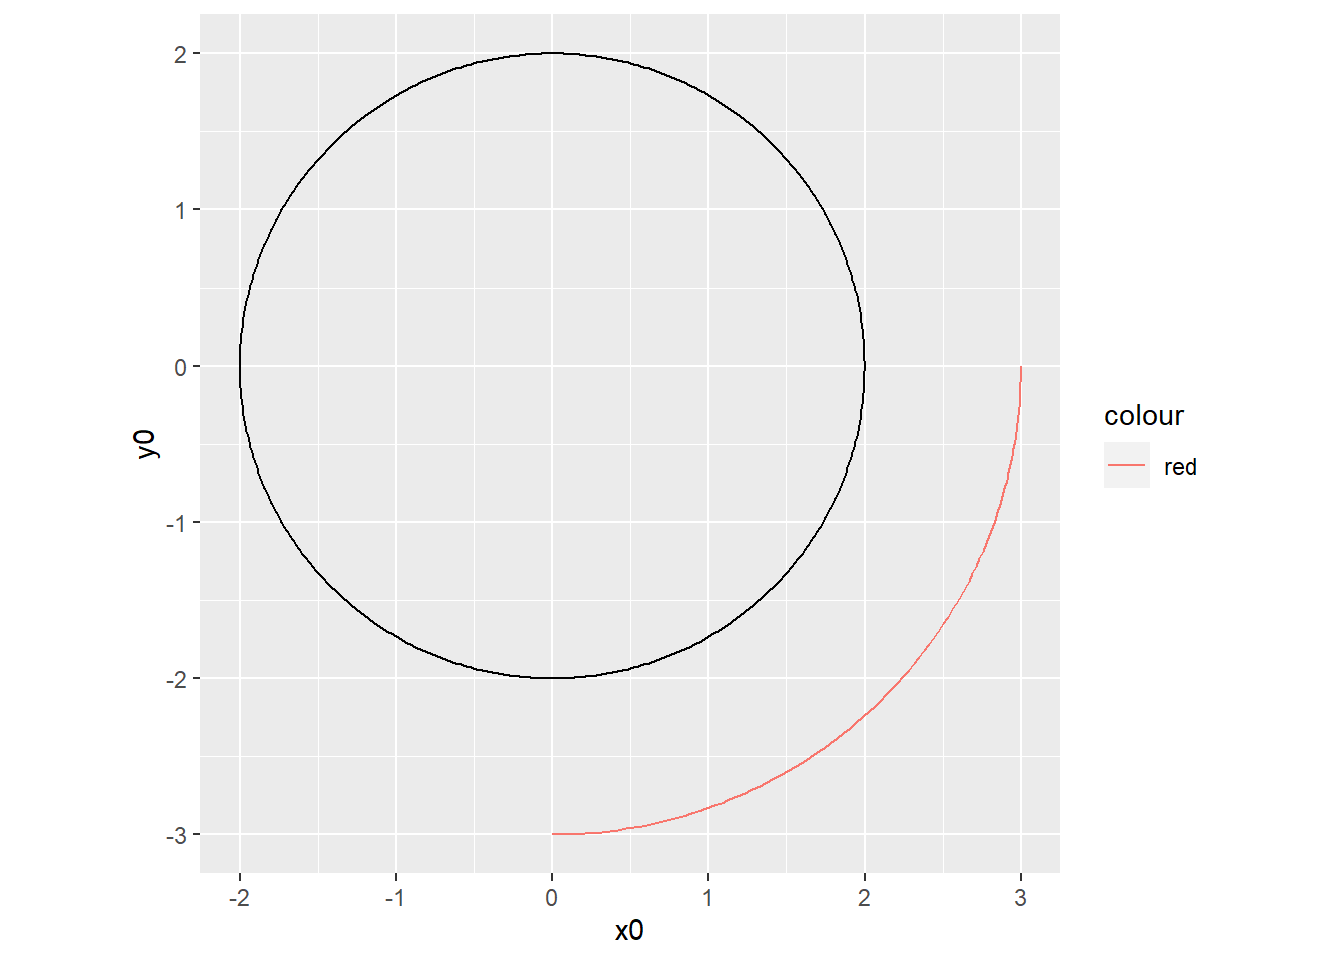
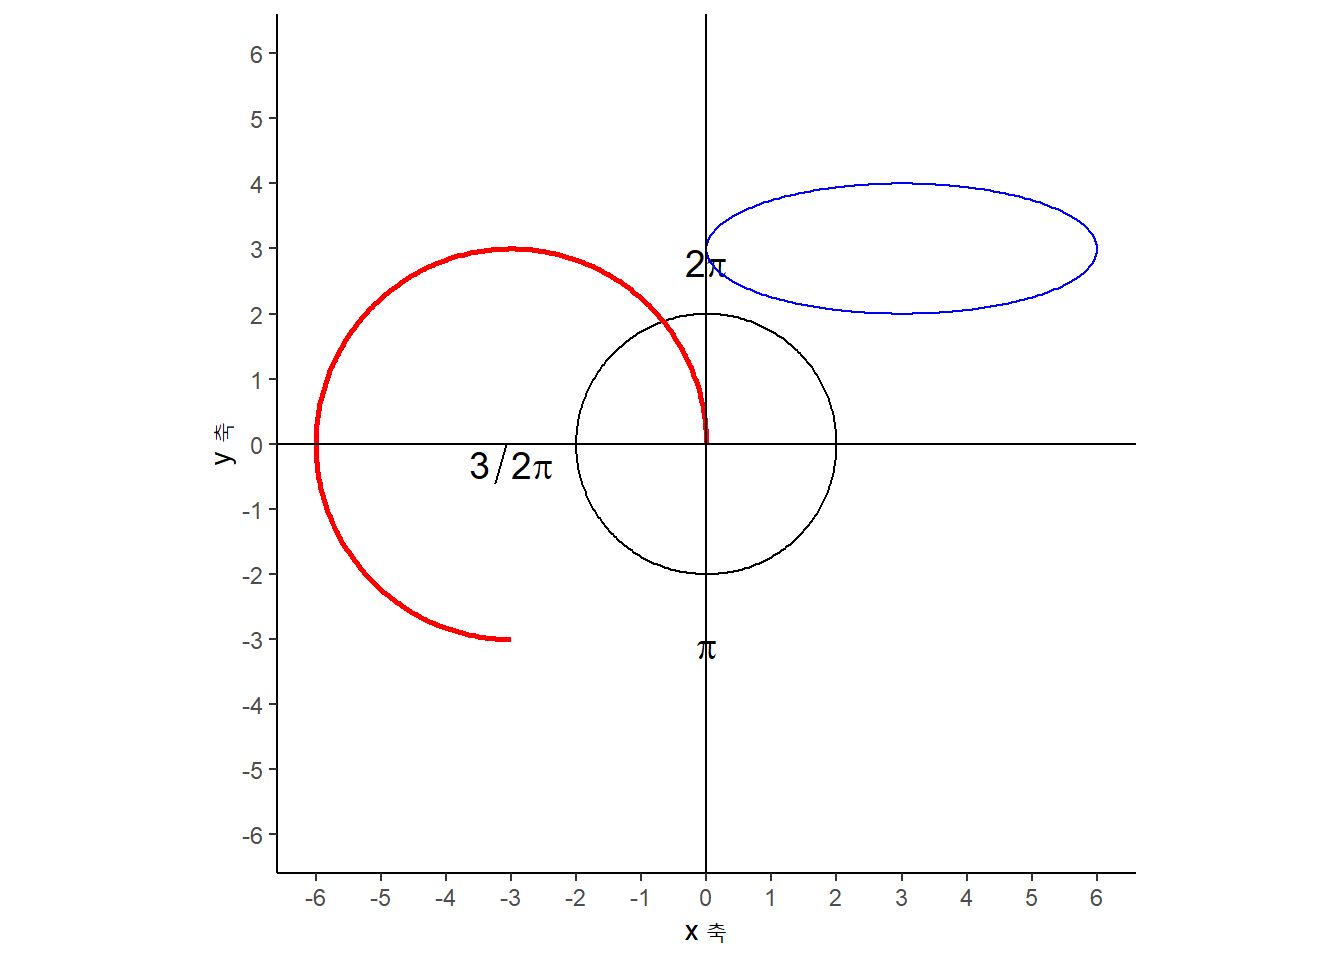
added geometric object primitives with ggplot

diff --git a/math-history-geometry-md.html b/math-history-geometry-md.html
@@ -604,13 +604,28 @@ Funky tikz
 <span id="cb9-14"><a href="#cb9-14" aria-hidden="true"></a></span>
 <span id="cb9-15"><a href="#cb9-15" aria-hidden="true"></a><span class="kw">\end</span>{<span class="ex">tikzpicture</span>}</span></code></pre></div>
 <p><img src="math-history-geometry-md_files/figure-html/draw-circle-coordinate-1.png" width="480" style="display: block; margin: auto;" /></p>
-<p>상기 <code>tikz</code> <span class="math inline">\(\LaTeX\)</span> 코드 대신 <code>ggplot</code>으로 시각화를 해보자. <code>ggforce</code> 팩키지 <code>geom_circle()</code>을 사용한다.</p>
+<p>상기 <code>tikz</code> <span class="math inline">\(\LaTeX\)</span> 코드 대신 <code>ggplot</code>으로 시각화를 해보자. <code>ggforce</code> 팩키지 <code>geom_circle()</code>을 사용한다. <code>geom_arc()</code>를 사용하여 호도 시각화 시킬 수 있고, <code>geom_ellipse()</code>를 사용하게 되면 타원도 그릴 수 있다.</p>
 <div class="sourceCode" id="cb10"><pre class="sourceCode r"><code class="sourceCode r"><span id="cb10-1"><a href="#cb10-1" aria-hidden="true"></a><span class="kw">library</span>(ggforce)</span>
 <span id="cb10-2"><a href="#cb10-2" aria-hidden="true"></a></span>
 <span id="cb10-3"><a href="#cb10-3" aria-hidden="true"></a><span class="kw">ggplot</span>() <span class="op">+</span></span>
-<span id="cb10-4"><a href="#cb10-4" aria-hidden="true"></a><span class="st">  </span><span class="kw">geom_circle</span>(<span class="kw">aes</span>(<span class="dt">x0 =</span> <span class="dv">0</span>, <span class="dt">y0 =</span> <span class="dv">0</span>, <span class="dt">r =</span> <span class="dv">2</span>), <span class="dt">color =</span> <span class="st">&quot;black&quot;</span>) <span class="op">+</span></span>
-<span id="cb10-5"><a href="#cb10-5" aria-hidden="true"></a><span class="st">  </span><span class="kw">coord_fixed</span>(<span class="dt">ratio =</span> <span class="dv">1</span>) <span class="op">+</span></span>
-<span id="cb10-6"><a href="#cb10-6" aria-hidden="true"></a><span class="st">  </span><span class="kw">geom_arc</span>(<span class="kw">aes</span>(<span class="dt">x0 =</span> <span class="dv">0</span>, <span class="dt">y0 =</span> <span class="dv">0</span>, <span class="dt">r =</span> <span class="dv">3</span>, <span class="dt">start =</span> pi<span class="op">/</span><span class="dv">2</span>, <span class="dt">end =</span> pi, <span class="dt">color =</span> <span class="st">&quot;red&quot;</span>))</span></code></pre></div>
+<span id="cb10-4"><a href="#cb10-4" aria-hidden="true"></a><span class="st">  </span><span class="co"># 원</span></span>
+<span id="cb10-5"><a href="#cb10-5" aria-hidden="true"></a><span class="st">  </span><span class="kw">geom_circle</span>(<span class="kw">aes</span>(<span class="dt">x0 =</span> <span class="dv">0</span>, <span class="dt">y0 =</span> <span class="dv">0</span>, <span class="dt">r =</span> <span class="dv">2</span>), <span class="dt">color =</span> <span class="st">&quot;black&quot;</span>) <span class="op">+</span></span>
+<span id="cb10-6"><a href="#cb10-6" aria-hidden="true"></a><span class="st">  </span><span class="co"># 호(Arc)</span></span>
+<span id="cb10-7"><a href="#cb10-7" aria-hidden="true"></a><span class="st">  </span><span class="kw">geom_arc</span>(<span class="kw">aes</span>(<span class="dt">x0 =</span> <span class="dv">-3</span>, <span class="dt">y0 =</span> <span class="dv">0</span>, <span class="dt">r =</span> <span class="dv">3</span>, <span class="dt">start =</span> pi <span class="op">/</span><span class="st"> </span><span class="dv">2</span> , <span class="dt">end =</span> <span class="op">-</span><span class="st"> </span>pi ), <span class="dt">color =</span> <span class="st">&quot;red&quot;</span>, <span class="dt">lineend =</span> <span class="st">&#39;butt&#39;</span>, <span class="dt">size =</span> <span class="dv">1</span>) <span class="op">+</span></span>
+<span id="cb10-8"><a href="#cb10-8" aria-hidden="true"></a><span class="st">  </span><span class="co"># pi 위치</span></span>
+<span id="cb10-9"><a href="#cb10-9" aria-hidden="true"></a><span class="st">  </span><span class="kw">annotate</span>(<span class="st">&quot;text&quot;</span>, <span class="dt">x =</span> <span class="dv">0</span>, <span class="dt">y =</span> <span class="dv">3</span>, <span class="dt">label =</span> <span class="st">&quot;2 * pi&quot;</span>, <span class="dt">vjust =</span>  <span class="dv">1</span>, <span class="dt">size =</span> <span class="dv">5</span>, <span class="dt">parse =</span> <span class="ot">TRUE</span>) <span class="op">+</span></span>
+<span id="cb10-10"><a href="#cb10-10" aria-hidden="true"></a><span class="st">  </span><span class="kw">annotate</span>(<span class="st">&quot;text&quot;</span>, <span class="dt">x =</span> <span class="dv">-3</span>, <span class="dt">y =</span> <span class="dv">0</span>, <span class="dt">label =</span> <span class="st">&quot;3 / 2 * pi&quot;</span>, <span class="dt">vjust =</span>  <span class="dv">1</span>, <span class="dt">size =</span> <span class="dv">5</span>, <span class="dt">parse =</span> <span class="ot">TRUE</span>) <span class="op">+</span></span>
+<span id="cb10-11"><a href="#cb10-11" aria-hidden="true"></a><span class="st">  </span><span class="kw">annotate</span>(<span class="st">&quot;text&quot;</span>, <span class="dt">x =</span> <span class="dv">0</span>, <span class="dt">y =</span> <span class="dv">-3</span>, <span class="dt">label =</span> <span class="st">&quot; pi&quot;</span>, <span class="dt">vjust =</span>  <span class="dv">1</span>, <span class="dt">size =</span> <span class="dv">5</span>, <span class="dt">parse =</span> <span class="ot">TRUE</span>)  <span class="op">+</span></span>
+<span id="cb10-12"><a href="#cb10-12" aria-hidden="true"></a><span class="st">  </span><span class="co"># 타원 (ellipse)</span></span>
+<span id="cb10-13"><a href="#cb10-13" aria-hidden="true"></a><span class="st">  </span><span class="kw">geom_ellipse</span>(<span class="kw">aes</span>(<span class="dt">x0 =</span> <span class="dv">3</span>, <span class="dt">y0 =</span> <span class="dv">3</span>, <span class="dt">a =</span> <span class="dv">3</span>, <span class="dt">b =</span> <span class="dv">1</span>, <span class="dt">angle =</span> <span class="dv">0</span>), <span class="dt">color =</span> <span class="st">&quot;blue&quot;</span>) <span class="op">+</span></span>
+<span id="cb10-14"><a href="#cb10-14" aria-hidden="true"></a><span class="st">  </span><span class="kw">theme_classic</span>() <span class="op">+</span></span>
+<span id="cb10-15"><a href="#cb10-15" aria-hidden="true"></a><span class="st">  </span><span class="kw">coord_equal</span>(<span class="dt">ratio =</span> <span class="dv">1</span>) <span class="op">+</span></span>
+<span id="cb10-16"><a href="#cb10-16" aria-hidden="true"></a><span class="st">  </span><span class="kw">scale_x_continuous</span>(<span class="dt">limits =</span> <span class="kw">c</span>(<span class="op">-</span><span class="dv">6</span>, <span class="dv">6</span>), <span class="dt">breaks =</span> <span class="kw">seq</span>(<span class="op">-</span><span class="dv">6</span>, <span class="dv">6</span>, <span class="dv">1</span>)) <span class="op">+</span></span>
+<span id="cb10-17"><a href="#cb10-17" aria-hidden="true"></a><span class="st">  </span><span class="kw">scale_y_continuous</span>(<span class="dt">limits =</span> <span class="kw">c</span>(<span class="op">-</span><span class="dv">6</span>, <span class="dv">6</span>), <span class="dt">breaks =</span> <span class="kw">seq</span>(<span class="op">-</span><span class="dv">6</span>, <span class="dv">6</span>, <span class="dv">1</span>)) <span class="op">+</span></span>
+<span id="cb10-18"><a href="#cb10-18" aria-hidden="true"></a><span class="st">  </span><span class="kw">labs</span>(<span class="dt">x =</span> <span class="st">&quot;x 축&quot;</span>, </span>
+<span id="cb10-19"><a href="#cb10-19" aria-hidden="true"></a>       <span class="dt">y =</span> <span class="st">&quot;y 축&quot;</span>) <span class="op">+</span></span>
+<span id="cb10-20"><a href="#cb10-20" aria-hidden="true"></a><span class="st">  </span><span class="kw">geom_hline</span>(<span class="dt">yintercept =</span> <span class="dv">0</span>) <span class="op">+</span><span class="st"> </span></span>
+<span id="cb10-21"><a href="#cb10-21" aria-hidden="true"></a><span class="st">  </span><span class="kw">geom_vline</span>(<span class="dt">xintercept =</span> <span class="dv">0</span>)  </span></code></pre></div>
 <p><img src="math-history-geometry-md_files/figure-html/ggplot-circle-1.png" width="672" style="display: block; margin: auto;" /></p>
 </div>
 </div>
